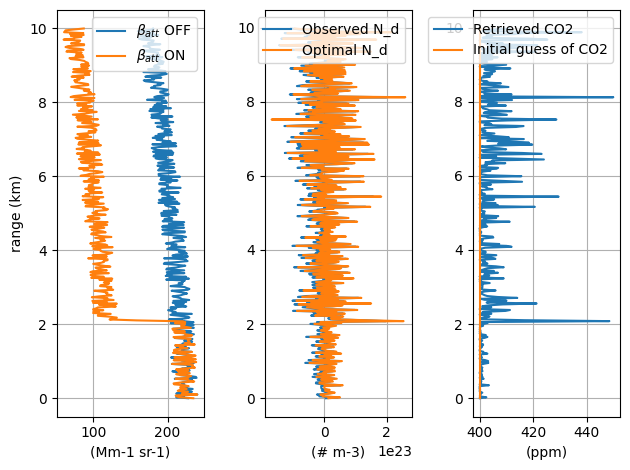
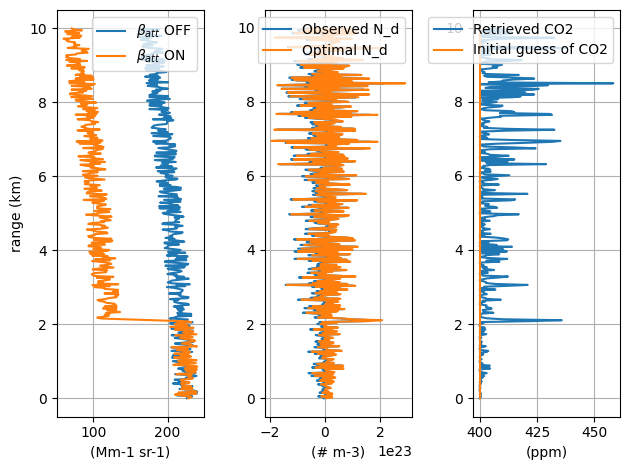
fixed a typo in constants, 2 different lochsmidts number in use

diff --git a/scripts/DIAL_xco2_retrieval.py b/scripts/DIAL_xco2_retrieval.py
@@ -14,9 +14,8 @@ from dialpy.pyOptimalEstimation import pyOptimalEstimation as pyOE
 from dialpy.equations.differential_co2_concentration import xco2_beta
 from dialpy.equations import constants
 from scripts import simulated_inputs as sims
-import pandas as pd
-import xarray as xr
 import matplotlib.pyplot as plt
+from dialpy.utilities.dl_var_atts import dl_var_atts as vatts
 
 # Read inputs
 range_ = sims.sim_range()
@@ -87,7 +86,10 @@ for i in range(len(range_)-1):
         res[i, 1] = float(summary['x_op'][0])
         res[i, 2] = float(summary['y_op'][0]*1e22)
 
-print(res.shape)
+
+# data_out.append(vatts("u", data=u_wind, dim_size=data_out[2].dim_size))
+# data_out.append(vatts("v", data=v_wind, dim_size=data_out[2].dim_size))
+
 
 fig = plt.figure()
 

diff --git a/dialpy/equations/constants.py b/dialpy/equations/constants.py
@@ -8,6 +8,9 @@
 PATH_TO_HITRAN = 'HITRAN_CO2_transition_data.par'
 PATH_TO_TOTAL_INTERNAL_SUM = 'total_internal_partition_sum.csv'
 
+POWER_OUT_LAMBDA_ON = 1e3  # Wrong value & probably not constant!
+POWER_OUT_LAMBDA_OFF = 1e3  # Wrong value & probably not constant!
+
 # Range resolution
 DELTA_RANGE = 100  # (m)
 
@@ -32,8 +35,9 @@ BOLTZMANNS_CONSTANT = 1.3806503e-23  # (m2 kg s−2 K−1)
 PLANCKS_CONSTANT = 6.62606957e-27  # erg s
 # c
 SPEED_OF_LIGHT = 2.99792458e8  # (m s-1)
-# n_0 Lochsmidts' number for air
+# n_0 Lochsmidt's number
 LOCHSMIDTS_NUMBER_AT_1ATM_296K = 2.47937196e19  # (cm-3)
+LOCHSMIDTS_NUMBER_AIR = 2.6867811e25  # (m-3)
 # Q_296K for CO2
 TOTAL_INTERNAL_PARTITION_SUM_296K_CO2 = 286.09
 # N_A

diff --git a/dialpy/utilities/dl_var_atts.py b/dialpy/utilities/dl_var_atts.py
@@ -6,8 +6,8 @@ Created on Thu Jun 13 11:08:40 2019
 @author: manninan
 """
 import netCDF4
-from dopplerlidarpy.attributes.common import COMMON_ATTRIBUTES
-from dopplerlidarpy.attributes.products import PRODUCT_ATTRIBUTES
+from dialpy.attributes.common import COMMON_ATTRIBUTES
+from dialpy.attributes.products import PRODUCT_ATTRIBUTES
 
 
 class NetcdfAttributeError(Exception):
